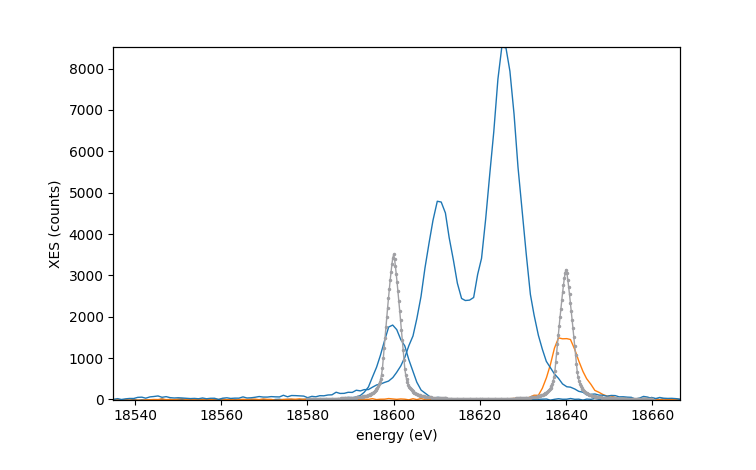
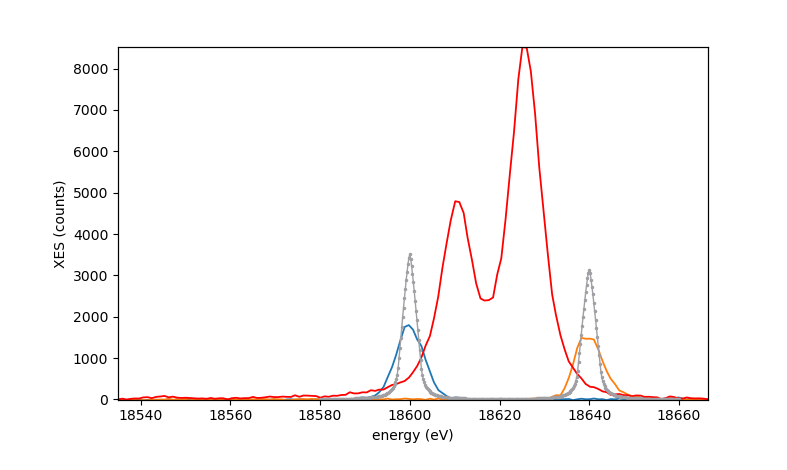
v 0.4.1

diff --git a/XES_scan_transforms.py b/XES_scan_transforms.py
@@ -37,7 +37,7 @@ class Tr0(ctr.Transform):
     nProcesses = cpus
     # inArrays and outArrays needed only for multiprocessing/multithreading:
     inArrays = ['xes3Draw']
-    outArrays = ['xes3D', 'xesN']
+    outArrays = ['xes3D', 'xesN', 'ixmin', 'ixmax']
 
     @staticmethod
     def run_main(data):
@@ -75,10 +75,15 @@ class Tr0(ctr.Transform):
             ys = np.arange(sh[1])[:, None]
             geoms = list(roiKeyFrames.values())[0]
             data.xesN = np.zeros((len(geoms), sh[0]))
+            ixmin, ixmax = (sh[2] + 1, 0) if any(
+                [geom['use'] for geom in geoms]) else (0, sh[2] + 1)
             if len(roiKeyFrames) == 1:
                 for ig, geom in enumerate(geoms):
                     if geom['use']:
                         mask = get_roi_mask(geom, xs, ys)
+                        _, indx = np.nonzero(mask)
+                        ixmin = min(ixmin, indx.min())
+                        ixmax = max(ixmax, indx.max())
                         stackedMask = np.broadcast_to(mask, sh)
                         data.xesN[ig, :] = np.where(
                             stackedMask, data.xes3D, data.xes3D*0).sum(
@@ -91,9 +96,14 @@ class Tr0(ctr.Transform):
                     for ig, geom in enumerate(geoms):
                         if geom['use']:
                             mask = get_roi_mask(geom, xs, ys)
+                            _, indx = np.nonzero(mask)
+                            ixmin = min(ixmin, indx.min())
+                            ixmax = max(ixmax, indx.max())
                             data.xesN[ig, i] = data.xes3D[i, :, :][mask].sum()
                         else:
                             data.xesN[ig, i] = data.xes3D[i, :, :].sum()
+            data.ixmin = ixmin
+            data.ixmax = ixmax
         return True
 
     def run_post(self, dataItems, runDownstream=True):
@@ -194,11 +204,11 @@ class Tr1(ctr.Transform):
             k0, b0 = _line([0, len(data.xes)-1], [data.xes[0], data.xes[-1]])
             data.xes -= np.arange(len(data.xes))*k0 + b0
 
-        for sp in allData:
-            if hasattr(sp, 'rc'):
-                del sp.rc
-            if hasattr(sp, 'rce'):
-                del sp.rce
+        # for sp in allData:
+        #     if hasattr(sp, 'rc'):
+        #         del sp.rc
+        #     if hasattr(sp, 'rce'):
+        #         del sp.rce
         if dtparams['calibrationFind'] and dtparams['calibrationData']:
             # try:
             if not Tr1.make_calibration(data, allData):

diff --git a/XES_scan_widgets.py b/XES_scan_widgets.py
@@ -107,6 +107,14 @@ class Tr0Widget(PropWidget):
         dtparams = data.transformParams
         self.roiWidget.setKeyFrames(dict(dtparams['roiKeyFrames']))
 
+    def extraPlot(self):
+        if len(csi.selectedItems) == 0:
+            return
+        data = csi.selectedItems[0]
+        if hasattr(data, 'ixmin') and self.roiWidget.autoZoom.isChecked():
+            lims = data.ixmin, data.ixmax
+            self.node.widget.plot._plot.getXAxis().setLimits(*lims)
+
 
 class Tr1Widget(PropWidget):
     u"""

diff --git a/version.py b/version.py
@@ -1,4 +1,4 @@
 # -*- coding: utf-8 -*-
-__versioninfo__ = (0, 4, 0)
+__versioninfo__ = (0, 4, 1)
 __version__ = '.'.join(map(str, __versioninfo__))
-__date__ = "6 Jun 2022"
+__date__ = "12 Jun 2022"
